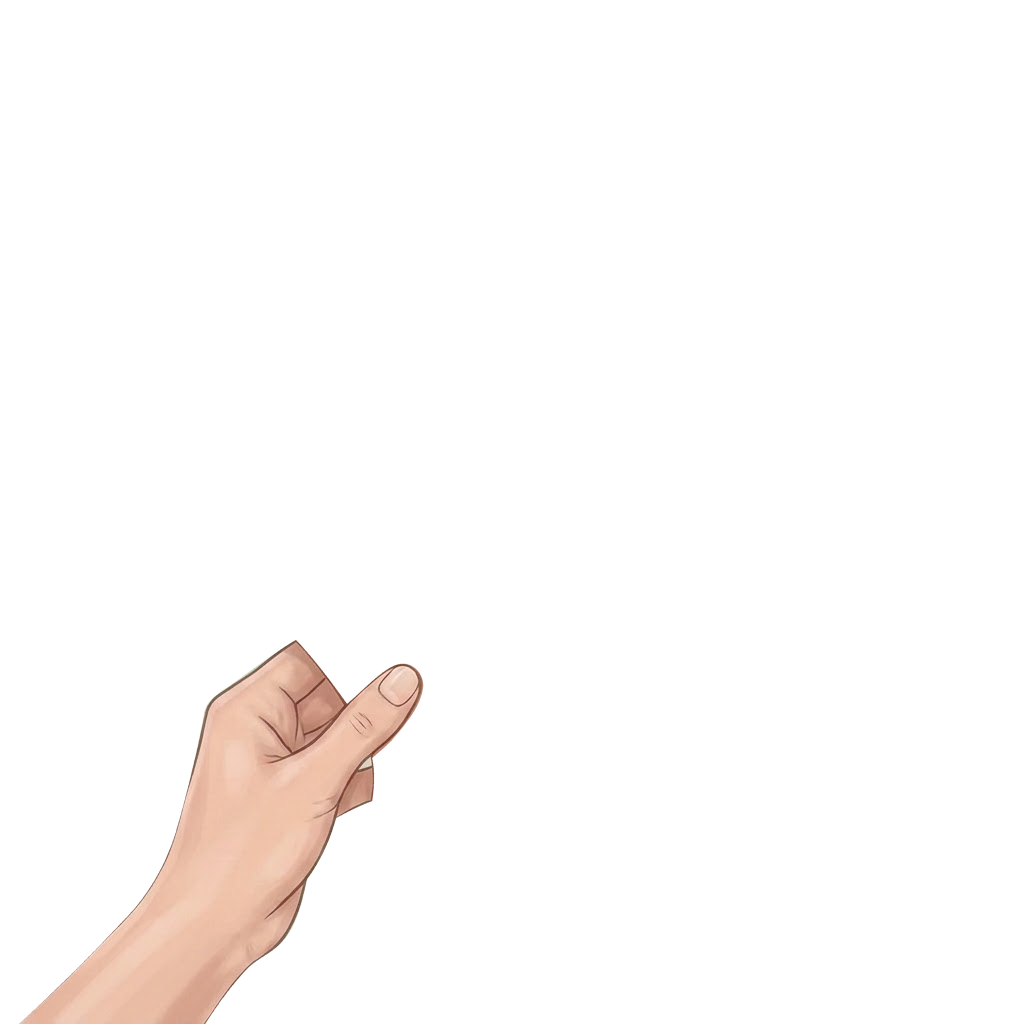
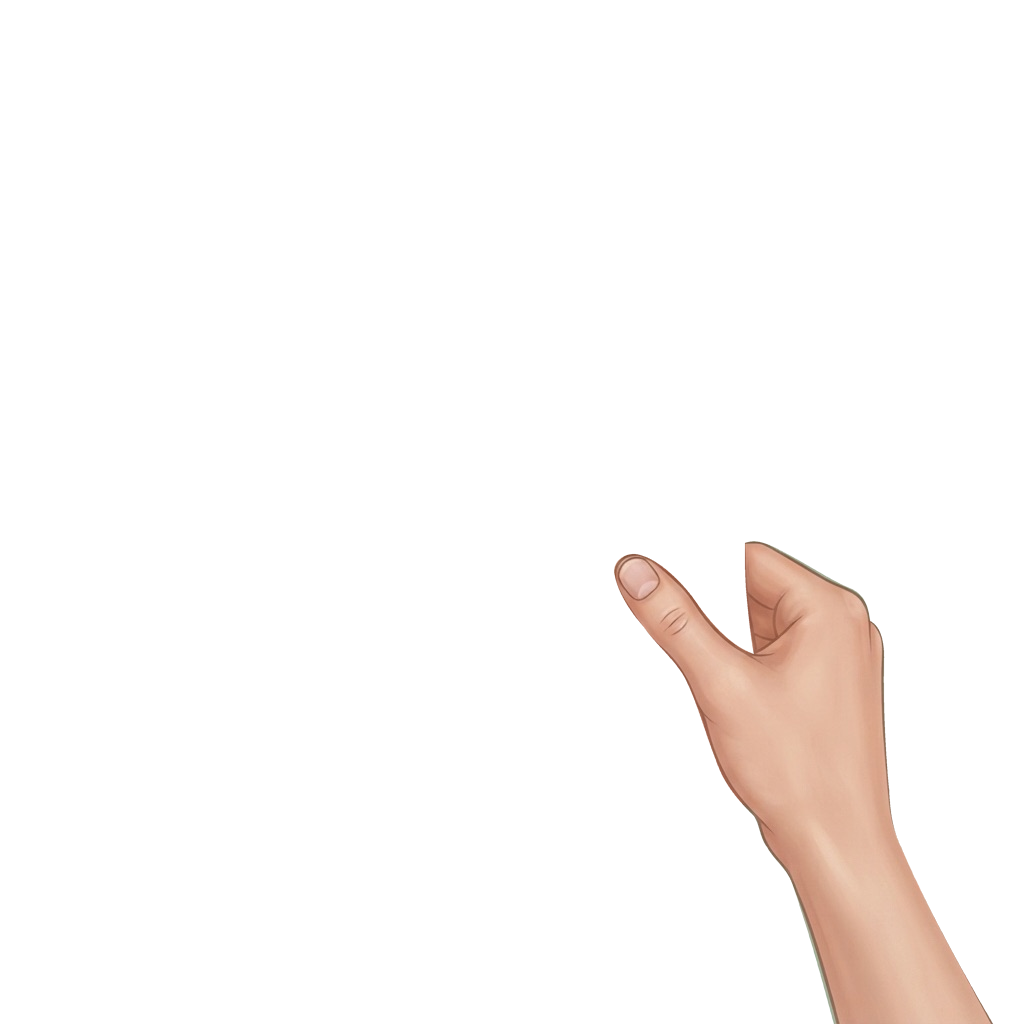
Adds missing points.

Changed region(s): [[0.5938, 0.5312, 0.9688, 1.0], [0.0312, 0.625, 0.4375, 1.0]]

diff --git a/src/data/pointLayersConfig.ts b/src/data/pointLayersConfig.ts
@@ -71,26 +71,32 @@ export const POINT_CHIP_COORDINATES: Record<string, PointChipCoordinate | PointC
 
   // === DRÁHA ŽALUDKU (ST) ===
   'st-2': [ // Párový bod pod oběma očima (2 chipy)
-    { x: 44, y: 48, size: 12, label: 'Levý ST 2' },
-    { x: 56, y: 48, size: 12, label: 'Pravý ST 2' },
+    { x: 38.5, y: 53.5, size: 11.5, label: 'Levý ST 2' },
+    { x: 61.5, y: 53.5, size: 11.5, label: 'Pravý ST 2' },
   ],
   'st-3': [ // Párový bod pod lícními kostmi (2 chipy)
-    { x: 43, y: 53, size: 12, label: 'Levý ST 3' },
-    { x: 57, y: 53, size: 12, label: 'Pravý ST 3' },
+    { x: 34.0, y: 54.0, size: 11, label: 'Levý ST 3' },
+    { x: 66.0, y: 54.0, size: 11, label: 'Pravý ST 3' },
   ],
-  'st-6': { x: 50, y: 50, size: 14, label: 'ST 6 (Čelist)' }, // Střední pohled na tvář
-  'st-7': { x: 48, y: 48, size: 14, label: 'ST 7 (Pod lícní kostí)' }, // Střední pohled
+  'st-6': { x: 44.5, y: 67.5, size: 14, label: 'ST 6 (Čelistní kost)' }, // Úhel čelisti / žvýkací sval
+  'st-7': { x: 48.5, y: 61.5, size: 14, label: 'ST 7 (Pod kloubem)' }, // Před uchem pod lícním obloukem
   'st-25': [ // Párový bod po obou stranách pupku (2 chipy)
-    { x: 38, y: 50, size: 13, label: 'Levý ST 25' },
-    { x: 62, y: 50, size: 13, label: 'Pravý ST 25' },
+    { x: 43.5, y: 49.0, size: 11.5, label: 'Levý ST 25' },
+    { x: 56.5, y: 49.0, size: 11.5, label: 'Pravý ST 25' },
   ],
-  'st-36': { x: 50, y: 45, size: 15, label: 'ST 36 (Pod kolenem)' }, // Střední pohled nohy
-  'st-37': { x: 50, y: 52, size: 14, label: 'ST 37 (Lýtko)' }, // Střední pohled nohy
+  'st-36': [ // Párový bod pod oběma koleny (2 chipy)
+    { x: 31.5, y: 51.0, size: 11, label: 'Levý ST 36' },
+    { x: 69.0, y: 51.0, size: 11, label: 'Pravý ST 36' },
+  ],
+  'st-37': [ // Párový bod na obou holeních (2 chipy)
+    { x: 30.5, y: 65.5, size: 11, label: 'Levý ST 37' },
+    { x: 70.0, y: 65.5, size: 11, label: 'Pravý ST 37' },
+  ],
 
   // === DRÁHA SLEZINY (SP) ===
-  'sp-6': { x: 52, y: 50, size: 16, label: 'SP 6 (Vnitřní lýtko nad kotníkem)' }, // Detail dolní nohy
-  'sp-8': { x: 50, y: 50, size: 15, label: 'SP 8 (Vnitřní holeň)' }, // Střední pohled
-  'sp-9': { x: 50, y: 48, size: 15, label: 'SP 9 (Pod kolenem zevnitř)' }, // Střední pohled
+  'sp-6': { x: 64.5, y: 65.5, size: 15, label: 'SP 6 (Spojení tří jin)' }, // Vnitřní lýtko nad kotníkem
+  'sp-8': { x: 44.5, y: 47.5, size: 14, label: 'SP 8 (Čep země)' }, // Vnitřní hrana holenní kosti
+  'sp-9': { x: 51.5, y: 58.5, size: 14, label: 'SP 9 (Pramen na jinové straně vršku)' }, // Vnitřní ohyb pod kolenem
 
   // === DRÁHA SRDCE (HT) ===
   'ht-7': { x: 45, y: 52, size: 19, label: 'HT 7 (Zápěstní rýha malíku)' }, // Velký detail zápěstí
@@ -102,39 +108,42 @@ export const POINT_CHIP_COORDINATES: Record<string, PointChipCoordinate | PointC
 
   // === DRÁHA MOČOVÉHO MĚCHÝŘE (UB) ===
   'ub-2': [ // Párový bod na vnitřním začátku obočí (2 chipy)
-    { x: 46, y: 44, size: 11, label: 'Levý UB 2' },
-    { x: 54, y: 44, size: 11, label: 'Pravý UB 2' },
+    { x: 38.5, y: 57.0, size: 11, label: 'Levý UB 2' },
+    { x: 61.5, y: 57.0, size: 11, label: 'Pravý UB 2' },
   ],
   'ub-12': [ // Párový bod horních zad T2 (2 chipy)
-    { x: 43, y: 46, size: 12, label: 'Levý UB 12' },
-    { x: 57, y: 46, size: 12, label: 'Pravý UB 12' },
+    { x: 45.5, y: 55.5, size: 11, label: 'Levý UB 12' },
+    { x: 54.5, y: 55.5, size: 11, label: 'Pravý UB 12' },
   ],
   'ub-13': [ // Párový bod Shu Plic T3 (2 chipy)
-    { x: 43, y: 48, size: 12, label: 'Levý UB 13' },
-    { x: 57, y: 48, size: 12, label: 'Pravý UB 13' },
+    { x: 45.5, y: 57.5, size: 11, label: 'Levý UB 13' },
+    { x: 54.5, y: 57.5, size: 11, label: 'Pravý UB 13' },
   ],
   'ub-15': [ // Párový bod Shu Srdce T5 (2 chipy)
-    { x: 43, y: 50, size: 12, label: 'Levý UB 15' },
-    { x: 57, y: 50, size: 12, label: 'Pravý UB 15' },
+    { x: 44.5, y: 58.5, size: 11, label: 'Levý UB 15' },
+    { x: 55.5, y: 58.5, size: 11, label: 'Pravý UB 15' },
   ],
   'ub-20': [ // Párový bod Shu Sleziny T11 (2 chipy)
-    { x: 43, y: 51, size: 12, label: 'Levý UB 20' },
-    { x: 57, y: 51, size: 12, label: 'Pravý UB 20' },
+    { x: 39.5, y: 59.5, size: 11, label: 'Levý UB 20' },
+    { x: 60.5, y: 59.5, size: 11, label: 'Pravý UB 20' },
   ],
   'ub-22': [ // Párový bod Shu Tří Zářičů L1 (2 chipy)
-    { x: 43, y: 52, size: 12, label: 'Levý UB 22' },
-    { x: 57, y: 52, size: 12, label: 'Pravý UB 22' },
+    { x: 42.5, y: 63.5, size: 11, label: 'Levý UB 22' },
+    { x: 57.5, y: 63.5, size: 11, label: 'Pravý UB 22' },
   ],
   'ub-25': [ // Párový bod Shu Tlustého Střeva L4 (2 chipy)
-    { x: 43, y: 53, size: 13, label: 'Levý UB 25' },
-    { x: 57, y: 53, size: 13, label: 'Pravý UB 25' },
+    { x: 44.0, y: 58.5, size: 11, label: 'Levý UB 25' },
+    { x: 56.0, y: 58.5, size: 11, label: 'Pravý UB 25' },
   ],
   'ub-32': [ // Párový bod křížové kosti (2 chipy)
-    { x: 44, y: 54, size: 12, label: 'Levý UB 32' },
-    { x: 56, y: 54, size: 12, label: 'Pravý UB 32' },
+    { x: 43.0, y: 56.5, size: 11, label: 'Levý UB 32' },
+    { x: 57.0, y: 56.5, size: 11, label: 'Pravý UB 32' },
   ],
-  'ub-40': { x: 50, y: 50, size: 15, label: 'UB 40 (Podkolenní jamka)' }, // Střední pohled
-  'ub-60': { x: 48, y: 52, size: 18, label: 'UB 60 (Vnější kotník)' }, // Detail kotníku
+  'ub-40': [ // Párový bod podkolenní jamky (2 chipy)
+    { x: 36.5, y: 63.5, size: 11, label: 'Levý UB 40' },
+    { x: 63.5, y: 63.5, size: 11, label: 'Pravý UB 40' },
+  ],
+  'ub-60': { x: 39.0, y: 66.5, size: 13, label: 'UB 60 (Hory Kunlun)' }, // Vnější kotník
 
   // === DRÁHA LEDVIN (KD) ===
   'kd-3': { x: 48, y: 52, size: 18, label: 'KD 3 (Vnitřní kotník)' }, // Detail kotníku
@@ -146,11 +155,11 @@ export const POINT_CHIP_COORDINATES: Record<string, PointChipCoordinate | PointC
   'sj-3': { x: 50, y: 50, size: 19, label: 'SJ 3 (Hřbet ruky u kloubů)' }, // Detail hřbetu ruky
   'sj-5': { x: 50, y: 50, size: 17, label: 'SJ 5 (Hřbetní strana zápěstí)' }, // Detail zápěstí
   'sj-6': { x: 50, y: 50, size: 16, label: 'SJ 6 (Předloktí nad zápěstím)' }, // Střední pohled
-  'sj-17': { x: 48, y: 50, size: 15, label: 'SJ 17 (Za ušním lalůčkem)' }, // Detail za uchem
+  'sj-17': { x: 53.5, y: 58.5, size: 14, label: 'SJ 17 (Štít proti větru)' }, // Za ušním lalůčkem
 
   // === DRÁHA ŽLUČNÍKU (GB) ===
-  'gb-2': { x: 50, y: 71, size: 8, label: 'GB 2 (Před uchem)' }, // Detail ucha
-  'gb-12': { x: 50, y: 50, size: 14, label: 'GB 12 (Za uchem na kosti)' }, // Detail za uchem
+  'gb-2': { x: 50.5, y: 72.0, size: 14, label: 'GB 2 (Sluchové setkání)' }, // Před uchem
+  'gb-12': { x: 51.5, y: 56.5, size: 14, label: 'GB 12 (Mastoidní výběžek)' }, // Za uchem
   'gb-14': [ // Párový bod nad oběma obočími (2 chipy)
     { x: 44, y: 42, size: 12, label: 'Levý GB 14' },
     { x: 56, y: 42, size: 12, label: 'Pravý GB 14' },
@@ -159,20 +168,20 @@ export const POINT_CHIP_COORDINATES: Record<string, PointChipCoordinate | PointC
     { x: 38, y: 48, size: 14, label: 'Levý GB 20' },
     { x: 62, y: 48, size: 14, label: 'Pravý GB 20' },
   ],
-  'gb-30': { x: 52, y: 52, size: 10, label: 'GB 30 (Hýždě / kyčel)' }, // Celkový pohled na bok
+  'gb-30': { x: 52.0, y: 51.5, size: 12, label: 'GB 30 (Skákající kroužek)' }, // Bok / hýždě
 
   // === DRÁHA JATER (LV) ===
   'lv-3': { x: 50, y: 50, size: 18, label: 'LV 3 (Hřbet nohy mezi prsty)' }, // Velký detail nártu
   'lv-13': { x: 48, y: 50, size: 13, label: 'LV 13 (Konec 11. žebra na boku)' }, // Celkový pohled trupu
 
   // === PŘEDNÍ STŘEDNÍ DRÁHA (CV / REN MAI) ===
-  'cv-4': { x: 50, y: 52, size: 14, label: 'CV 4 (Podbřišek)' }, // Širší záběr břicha
-  'cv-6': { x: 50, y: 48, size: 14, label: 'CV 6 (Moře čchi pod pupkem)' }, // Širší záběr břicha
-  'cv-12': { x: 50, y: 60, size: 10, label: 'CV 12 (Střed břicha nad pupkem)' }, // Širší záběr břicha
-  'cv-17': { x: 50, y: 58, size: 10, label: 'CV 17 (Střed hrudní kosti)' }, // Širší záběr hrudníku
+  'cv-4': { x: 49.0, y: 50.0, size: 12, label: 'CV 4 (Brána původu)' }, // Podbřišek
+  'cv-6': { x: 50.0, y: 46.0, size: 12, label: 'CV 6 (Moře čchi)' }, // Pod pupkem
+  'cv-12': { x: 51.0, y: 60.5, size: 12, label: 'CV 12 (Střední dutina)' }, // Nad pupkem
+  'cv-17': { x: 50.0, y: 59.0, size: 12, label: 'CV 17 (Střed hrudi)' }, // Hrudní kost
 
   // === ZADNÍ STŘEDNÍ DRÁHA (GV / DU MAI) ===
-  'gv-26': { x: 50, y: 53, size: 10, label: 'GV 26 (Rýha pod nosem)' }, // Střední detail obličeje
+  'gv-26': { x: 50.5, y: 52.0, size: 13, label: 'GV 26 (Vodní žlábek)' }, // Rýha pod nosem
 };
 
 /**
